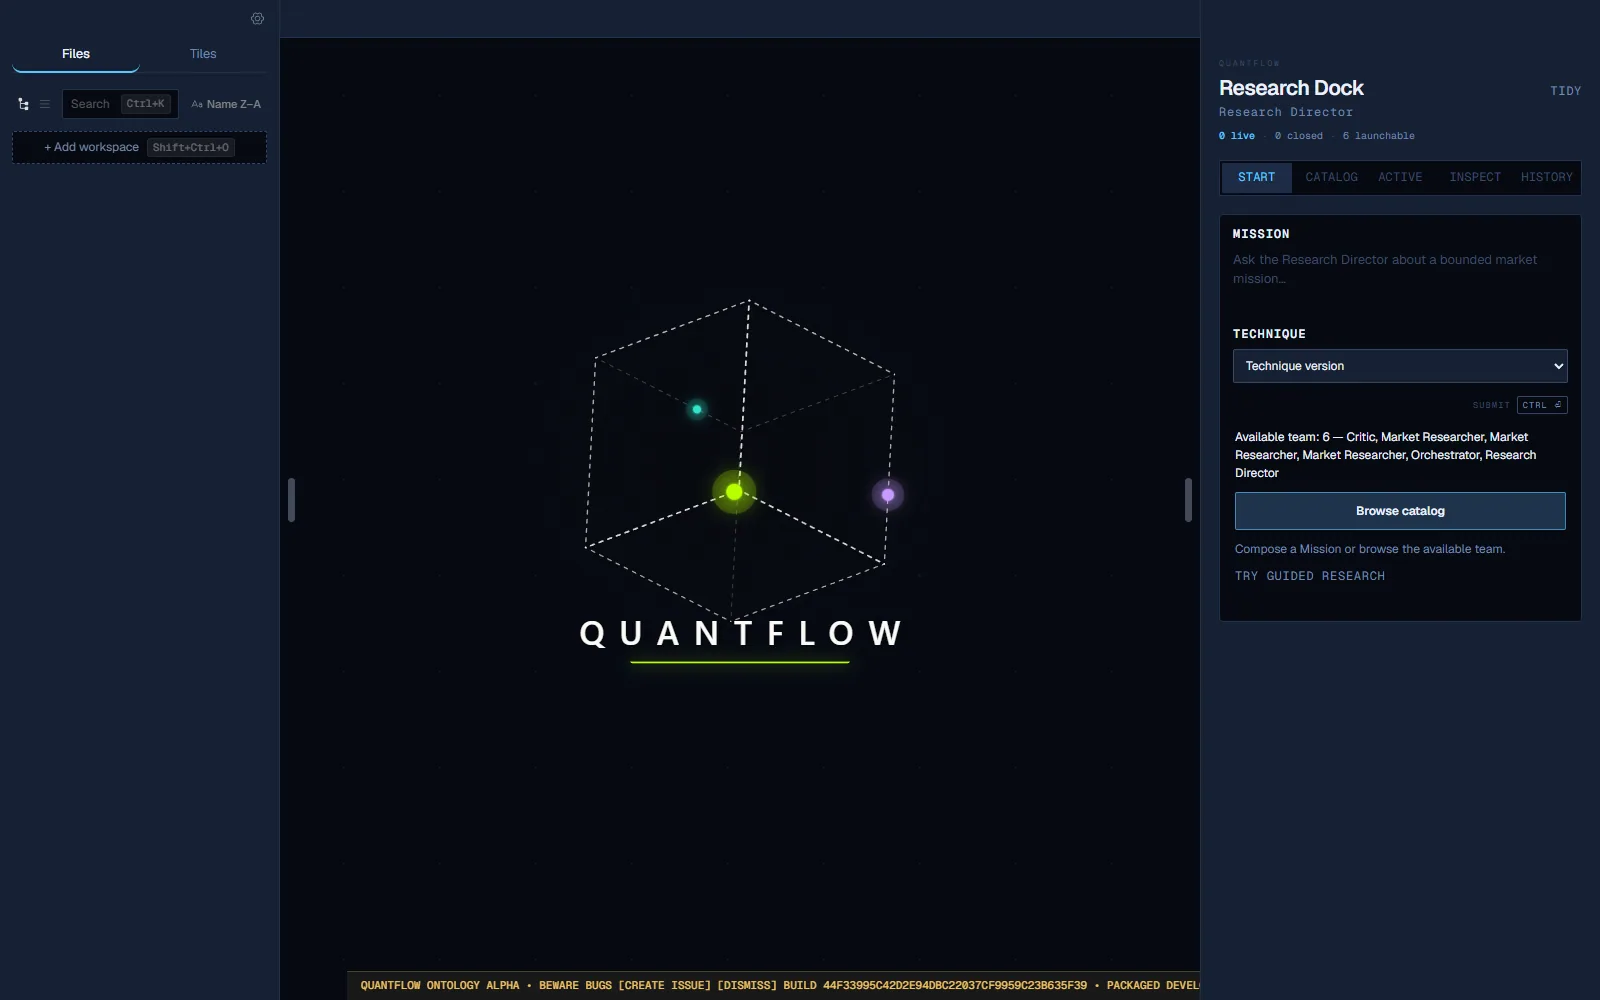
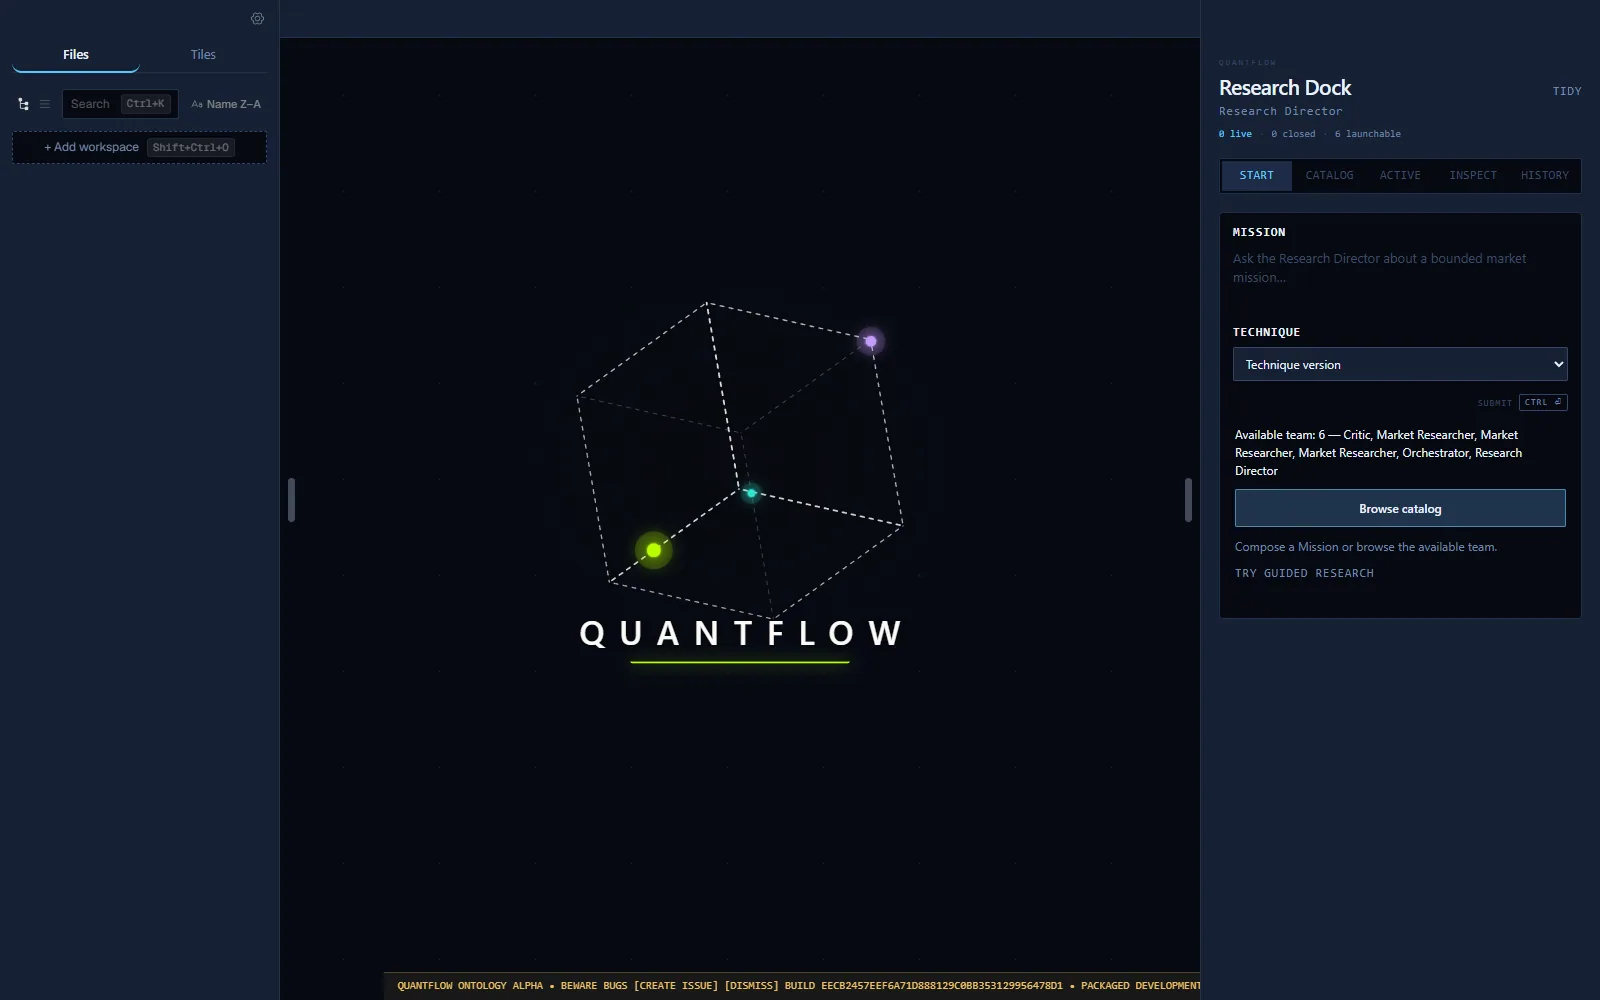
evidence(pre-r18): bind captures to final candidate

diff --git a/docs/orders/evidence/pre-r18-coherence/SCREENSHOT-MANIFEST.md b/docs/orders/evidence/pre-r18-coherence/SCREENSHOT-MANIFEST.md
@@ -1,11 +1,17 @@
 # Pre-R18 Coherence Screenshot Manifest
 
 These fourteen captures come from product/proof candidate
-`67f9ba42affcb30fa8bc0961808ed10d8541ea6f` through the production Electron
+`eecb2457eef6a71d888129c0bb353129956478d1` through the production Electron
 shell and renderer with the bounded `QF_PRE_R18_CAPTURE=1` evidence switch.
 Every image uses `webContents.capturePage` at 1600×1000, 100% scale, and
 `devicePixelRatio=1`. Object/link counts are measured from the live DOM at each
 checkpoint.
+
+This is one adopted successful capture from the immutable product candidate
+above. The later evidence-only commit carries these captures and this manifest;
+its SHA is reported separately from the product candidate in the handoff. No
+capture was inherited from the prior manifest: all fourteen prior hashes differ
+from the hashes below.
 
 Frames 12 and 13 select the exact live Artifact/Evaluation tile, enter LOCAL, and
 show full identity and provenance only in Dock INSPECT. Frame 14 deliberately
@@ -14,24 +20,43 @@ selection or Canvas inspector, and retains a visible Back to world action.
 
 | # | State | Viewport | Objects / links | File | Bytes | SHA-256 | Acceptance mapping |
 |---:|---|---|---:|---|---:|---|---|
[28 lines of base64/hex data omitted]
 
-Total: `14 files`, `665,388 bytes`. Every image is unique, exactly
+Total: `14 files`, `651,912 bytes`. Every image is unique, exactly
 `1600×1000`, individually below 600 KB, and the full screenshot set is below
-25 MB.
+25 MB. Independent visual validation found the expected state marker in every
+frame: START empty, Mission starting, Director planning, active participants,
+raw Artifact, Evaluation/current Report, completed world, reopened world,
+CATALOG, ACTIVE sessions, participant Inspect, Artifact LOCAL Inspect,
+Evaluation LOCAL Inspect, and FULL lineage. All fourteen frames visibly carry
+the `BUILD EECB2457EEF6A71D888129C0BB353129956478D1` footer.
+
+Capture and cleanup receipt:
+
+- Command: `$env:QF_PRE_R18_CAPTURE='1'; bun qa/run.ts pre-r18-coherence`.
+- Isolated roots: randomized `qf-pre-r18-coherence-<suffix>` temp root;
+  `<root>\stores\kernel.db`, `<root>\stores\artifacts`, `<root>\app-root`,
+  `<root>\home`, and `<root>\temp` (with the app's `AppData` children).
+- The prior gate receipt was `roots_remaining=0 leaked=[]`; current validation
+  found zero `qf-pre-r18-coherence-*` roots and zero capture-owned app/process
+  entries. The randomized child root name was not emitted by the interrupted
+  repeat and is intentionally not invented here.
+- The product candidate remained immutable at
+  `eecb2457eef6a71d888129c0bb353129956478d1`; the later evidence-only commit is
+  a separate boundary and is reported separately.
 
 Original-resolution visual inspection covered 01, 04, 07, 09, 12, 13, and 14:
 no blank tile, false Mission identity, terminal overlap, contradictory historical

diff --git a/docs/orders/evidence/pre-r18-coherence/BUILDER-EVIDENCE.md b/docs/orders/evidence/pre-r18-coherence/BUILDER-EVIDENCE.md
@@ -4,7 +4,10 @@
 
 - Branch: `wo-pre-r18-coherence`
 - Reader-approved authority/order SHA: `44f33995c42d2e94dbc22037cf9959c23b635f39`
-- Product/proof candidate: `67f9ba42affcb30fa8bc0961808ed10d8541ea6f`
+- Product/proof candidate: `eecb2457eef6a71d888129c0bb353129956478d1`
+- Evidence boundary: the later single evidence-only commit containing the adopted
+  captures and these two evidence documents; its SHA is reported separately from
+  the immutable product candidate in the handoff.
 - Accepted R17 oracle remains `qa/oracles/r17-technique-outcome.json`: 16 objects and 20 exact links.
 - No Kernel schema/action/link, ontology type, inventory, Canvas engine, truth store, R18 capability, release, installer, or packaging surface changed.
 
@@ -38,10 +41,49 @@ while all five Dock modes retain one-pane paint isolation.
 | Focused Dock/research-world/task-composition/cable-overlay tests | `0`; 26 pass, 0 fail, 186 expectations |
 | `bunx tsc --noEmit` | `0` |
 | Capture-disabled `bun qa/run.ts pre-r18-coherence` with capture/proof env unset | `0`; DEFAULT 13/13, LOCAL exact/dimmed, FULL 16/20, 16 object inspections, 20 link inspections, C01–C14 PASS, production boundaries PASS, clean shutdown |
-| Capture-enabled `bun qa/run.ts pre-r18-coherence` | `0`; 14/14 frames at 1600×1000, 665,388 bytes total, FULL 16/20, clean shutdown |
+| Capture-enabled `$env:QF_PRE_R18_CAPTURE='1'; bun qa/run.ts pre-r18-coherence` | `0`; 14/14 frames at 1600×1000, 651,912 bytes total, FULL 16/20, clean shutdown |
 | `repo-shape`, `lockfile-committed`, `kernel-sole-writer`, `no-canvas-domain-writes`, `kernel-sole-writer-app`, `doc-action-surface`, `one-skin`, `rung-ladder` | all final exits `0` |
 | `bun qa/run.ts doc-links` | `0`; 73 live documents and every pointer resolves |
 | `git diff --check` | `0` |
+
+## Adopted capture receipt
+
+The following exact files were produced by the successful capture command above
+from product candidate `eecb2457eef6a71d888129c0bb353129956478d1`. The repeat
+that was interrupted did not replace or alter them.
+
+| # | File | Dimensions | Bytes | SHA-256 |
+|---:|---|---|---:|---|
[14 lines of base64/hex data omitted]
+
+Receipt totals: `14 files`, `651,912 bytes`, every frame exactly `1600×1000`,
+every frame readable/nonempty, every frame below 600 KB, and no adopted hash
+equals its prior-manifest hash. Original-resolution inspection confirmed the
+expected 14 state markers and the visible `BUILD EECB2457EEF6A71D888129C0BB353129956478D1`
+footer in every frame.
+
+The capture used isolated roots rooted at randomized
+`qf-pre-r18-coherence-<suffix>`: `<root>\stores\kernel.db`,
+`<root>\stores\artifacts`, `<root>\app-root`, `<root>\home` (including
+`AppData`), and `<root>\temp`. The prior gate cleanup receipt was
+`roots_remaining=0 leaked=[]`; current validation found zero matching temp
+roots and zero capture-owned app/capture processes. The randomized child root
+name was not emitted by the interrupted repeat and is intentionally not
+invented. Candidate HEAD stayed immutable at `eecb2457eef6a71d888129c0bb353129956478d1`;
+the later evidence-only commit is a separate boundary.
 
 The live control emitted these production-boundary receipts:
 `renderer_submission=PASS boundary=qf.research.submit_question`,
@@ -112,11 +154,9 @@ and Evaluation Dock inspection, and a subordinate-cable FULL overview with no
 floating inspector or accidental selection.
 
 Every live PRE-R18 run ended with `roots_remaining=0 leaked=[]` and
-`cleanup=clean`. The exact interrupted verifier root named in
-`VERIFICATION-FINAL.md`,
-`C:\Users\rybow\AppData\Local\Temp\qf-pre-r18-coherence-2lZN1J`, is
-already absent and has zero external owning processes. Pre-existing Atlas and
-installed acceptance processes were not touched.
+`cleanup=clean`. The randomized child root name for the adopted capture was not
+emitted; no root name is invented here. Pre-existing Atlas and installed
+acceptance processes were not touched.
 
 Atlas is generated only after this evidence ordering is committed. Its final
 generate/check/ratchet/build-base-diff exits and separate Atlas commit SHA are
